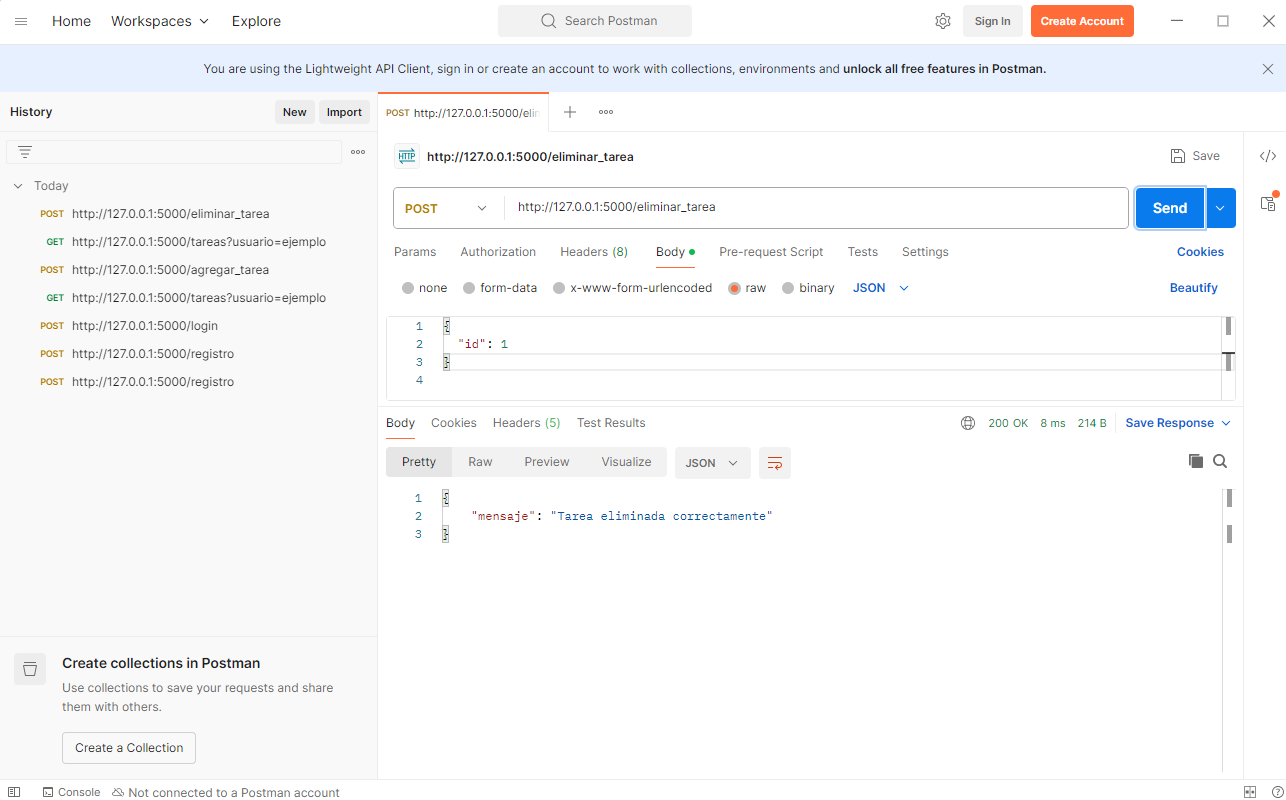
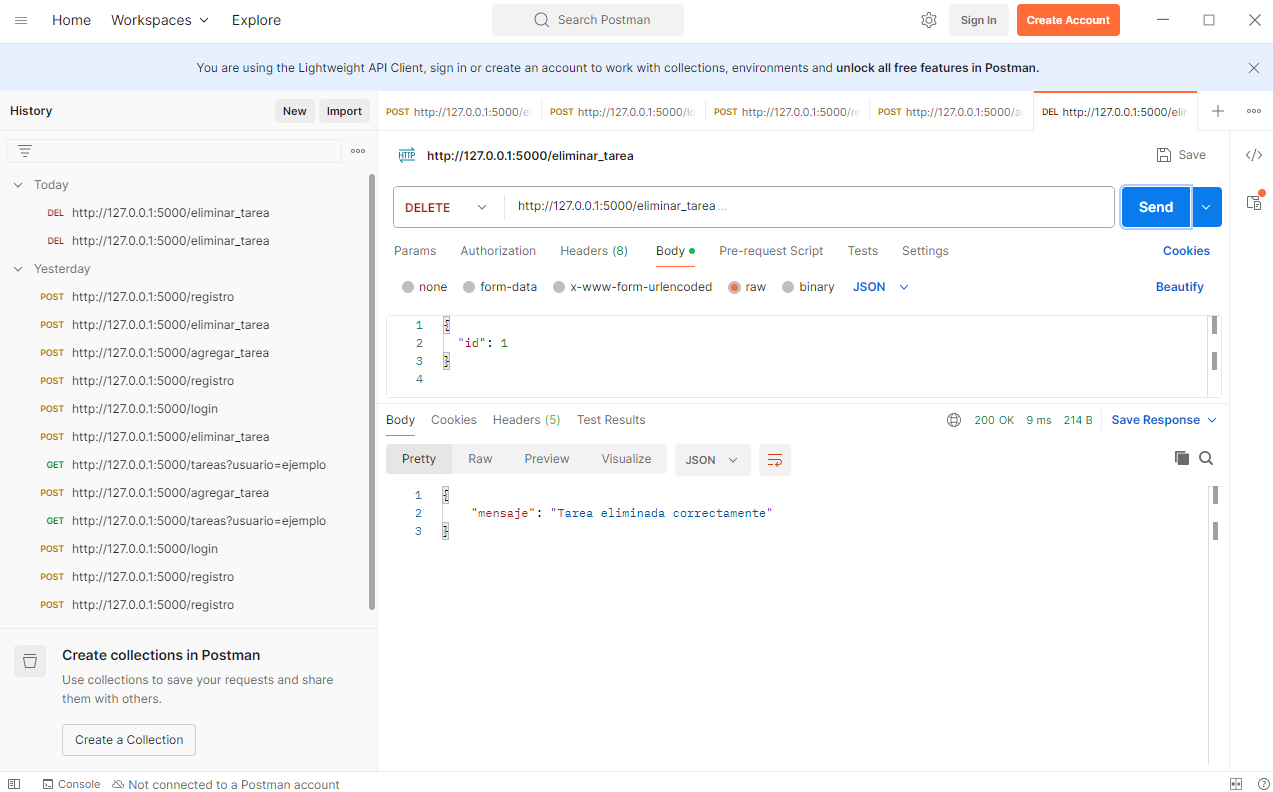
Correccion metodo http en eliminar tarea. Nueva imagen postman

diff --git a/api.py b/api.py
@@ -81,7 +81,7 @@ def agregar_tarea():
         conn.commit()
     return jsonify({'mensaje': 'Tarea agregada correctamente'}), 201
 
-@api.route('/eliminar_tarea', methods=['POST'])
+@api.route('/eliminar_tarea', methods=['DELETE'])
 def eliminar_tarea():
     data = request.get_json()
     tarea_id = data.get('id')
